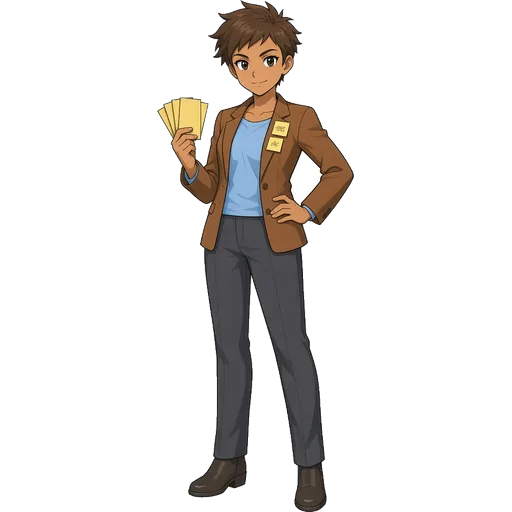
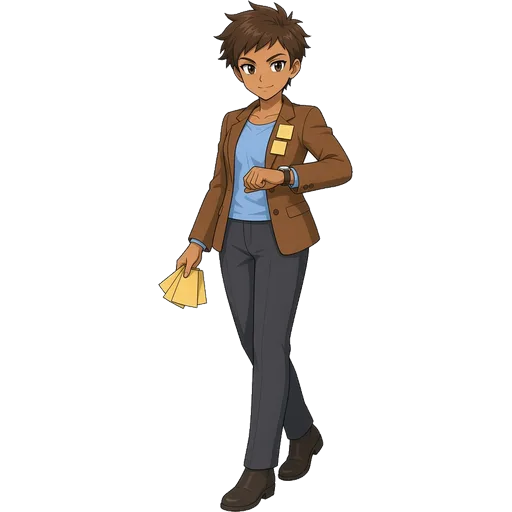
Pass J visual: F1–2 plate pose energy — all seven house plates
Re-commission the seven Office F1–2 house plates (renata, gavin, priya,
holloway, teddy, whitlock, kessler) from static badge poses toward the
gestured F3–5 bar: weight on one hip, one clear gesture with the prop, a
lean — faces still badge-photo calm for dialogue crops.

- gen_office_plates.py brief: shared POSE_ANCHOR (hands + props below the
  shoulder line so nothing reaches the Headshot rim) and one POSE per
  speaker; CHARACTER lines now list props only.
- HEADSHOT_FOCALS: Renata x .49 / y .14, Priya x .505 / y .14, Teddy x .47
  follow the heads that moved; all seven stay in the named-plate band.
- pass-j-visual: Renata pin updated; guard the POSE entries + contract.
- Classic recruiter/overachiever/scrum/manager/intern/boss/vp untouched
  (sha256 pins unchanged). No walk-sheet change — carriers still match.
- fidelity-bar.md Pass J pose-energy section, README + sign-off row.

Changed region(s): [[0.3125, 0.0, 0.6875, 1.0]]

diff --git a/src/sprites.ts b/src/sprites.ts
@@ -109,16 +109,20 @@ const HEADSHOT_FOCALS: Record<string, HeadshotFocal> = {
   ashford: { x: 0.51, y: 0.115, zoom: 3.15 },
   marlowe: { x: 0.53, y: 0.12, zoom: 3.2 },
   caldwell: { x: 0.51, y: 0.12, zoom: 3.1 },
-  // Office F1–2 house plates (Pass J recast). Every figure stands centred
-  // on its plate, so x sits near 0.5; y pins the eye line into the upper
-  // third of the badge and zoom stays in the 3.1–3.4 band the F3–5 named
-  // plates use. Renata's wavy hair is the widest head of the seven — she
-  // takes the loosest zoom; the three slick-haired men take the tightest.
-  renata: { x: 0.45, y: 0.135, zoom: 3.15 },
+  // Office F1–2 house plates (Pass J recast + pose-energy pass). Every
+  // figure stands centred on its plate, so x sits near 0.5 — the pose pass
+  // shifts a few heads off the plate centre line (Teddy leans in from the
+  // left, Renata cocks her hip to the right), so x follows the head, not
+  // the figure. y pins the eye line into the upper third of the badge and
+  // zoom stays in the 3.1–3.4 band the F3–5 named plates use. Renata's wavy
+  // hair is the widest head of the seven — she takes the loosest zoom; the
+  // three slick-haired men take the tightest. Props are held below the
+  // shoulder line on every plate, so no prop reaches the badge rim.
+  renata: { x: 0.49, y: 0.14, zoom: 3.15 },
   gavin: { x: 0.485, y: 0.114, zoom: 3.35 },
-  priya: { x: 0.49, y: 0.135, zoom: 3.3 },
+  priya: { x: 0.505, y: 0.14, zoom: 3.3 },
   holloway: { x: 0.5, y: 0.122, zoom: 3.3 },
-  teddy: { x: 0.5, y: 0.13, zoom: 3.2 },
+  teddy: { x: 0.47, y: 0.13, zoom: 3.2 },
   whitlock: { x: 0.49, y: 0.11, zoom: 3.35 },
   kessler: { x: 0.495, y: 0.118, zoom: 3.35 },
 }

diff --git a/src/__tests__/office/pass-j-visual.test.ts b/src/__tests__/office/pass-j-visual.test.ts
@@ -172,7 +172,7 @@ describe('Pass J — F1–2 house plates recast to the F3–5 bar', () => {
       expect(f.y, `${id} y`).toBeGreaterThanOrEqual(Math.min(...namedY))
       expect(f.y, `${id} y`).toBeLessThanOrEqual(0.14)
     }
-    expect(headshotFocal('renata')).toEqual({ x: 0.45, y: 0.135, zoom: 3.15 })
+    expect(headshotFocal('renata')).toEqual({ x: 0.49, y: 0.14, zoom: 3.15 })
     expect(headshotFocal('kessler')).toEqual({ x: 0.495, y: 0.118, zoom: 3.35 })
   })
 
@@ -194,10 +194,15 @@ describe('Pass J — F1–2 house plates recast to the F3–5 bar', () => {
     const src = readFileSync(join(process.cwd(), 'scripts', 'gen_office_plates.py'), 'utf8')
     for (const id of HOUSE) {
       expect(src, id).toMatch(new RegExp(`'${id}': \\('${id.toUpperCase()}', '\\w+'\\)`))
-      expect(src, `${id} brief`).toMatch(new RegExp(`'${id}': \\(\\n`))
+      // One CHARACTER entry and one POSE entry per speaker.
+      expect(src.match(new RegExp(`'${id}': \\(\\n`, 'g'))?.length, `${id} brief`).toBe(2)
     }
     for (const cmd of ['brief', 'import', 'check']) expect(src).toContain(`'${cmd}'`)
     expect(src).toContain("actor.pal['H']")
+    // Pose-energy pass: the shared pose contract keeps props under the
+    // shoulder line so nothing lands on the Headshot rim.
+    expect(src).toContain('POSE_ANCHOR')
+    expect(src).toContain('BELOW the shoulder line')
     expect(PRESENTATION_SIGNOFF.section19.some((row) => row.includes('Pass J house plates'))).toBe(
       true,
     )

diff --git a/src/screens/office/presentation.ts b/src/screens/office/presentation.ts
@@ -69,6 +69,7 @@ export const PRESENTATION_SIGNOFF = {
     'Pass I ambient Headshots — 15 unique plates; no extra side-cast NPCs',
     'Pass J visual — Kessler / Renata house focals, Sloane chibi tie, two-cell CALDWELL plate',
     'Pass J house plates — F1–2 recast to Office-only 512s (scripts/gen_office_plates.py); Classic files untouched',
+    'Pass J pose energy — all seven F1–2 plates gestured to the F3–5 bar; props below the shoulder line, badge crops clean',
     'Pass J signage — F2 HELP / DESK stacks in one cell; seven-glyph room signs frame inside the cell',
     'Pass G live 1→5 E2E — no Floor 6, THE NOD, save/load, Caldwell phase 2',
   ],

diff --git a/scripts/gen_office_plates.py b/scripts/gen_office_plates.py
@@ -30,6 +30,13 @@ Pipeline (same shape as Pass E's F3–5 plates):
 
 Masters are generated from the briefs (style anchor: the Pass E F3–5 plates)
 and are not committed — see README "Assets" for the precedent.
+
+Pose energy (Pass J follow-up): the first recast landed badge-calm but
+static — arms straight down, both hands on the cup. The brief now carries a
+shared pose contract (POSE_ANCHOR) and one gesture per speaker (POSE), tuned
+against the F3–5 plates: weight on one hip, a hand doing something with the
+prop, a lean — with every prop held below the shoulder line so the square
+Headshot crop shows a clean face and nothing sits on the badge rim.
 """
 
 from __future__ import annotations
@@ -62,58 +69,127 @@ STYLE_ANCHOR = (
     'roster, in exactly the same art style as the Floor 3–5 plates (sloane, '
     'harper, ashford, caldwell): clean cel-shaded anime / JRPG trainer-card '
     'style, crisp dark line art, flat colours with one level of soft shading, '
-    'no gradients or painterly texture, calm "employee badge photo" expression, '
-    'standing straight, facing the viewer, full body from head to shoes, '
-    'centred, plain pure white background, no ground shadow, no text, no '
-    'logo, no frame. Proportions and line weight must match the roster.'
+    'no gradients or painterly texture, calm "employee badge photo" face, '
+    'facing the viewer, full body from head to shoes, centred, plain pure '
+    'white background, no ground shadow, no text, no logo, no frame. '
+    'Proportions and line weight must match the roster.'
 )
+
+# Pose energy (Pass J follow-up). The F3–5 plates stand alive — weight on one
+# hip, a hand doing something with the prop, a lean — while the face stays
+# calm enough for a dialogue crop. The first F1–2 recast landed static (arms
+# straight down, both hands on the cup). This is the shared pose contract;
+# the per-speaker gesture lives in POSE.
+POSE_ANCHOR = (
+    'Pose: alive, not static — weight shifted onto one leg with a relaxed hip, '
+    'shoulders turned a few degrees, ONE clear gesture with the prop or a hand. '
+    'No action pose, no walking stride, no jumping, no shouting, no open mouth, '
+    'no pointing at the camera, no exaggerated grin — this is a colleague '
+    'caught between meetings, not a battle taunt. CRITICAL crop contract: both '
+    'hands and the prop stay BELOW the shoulder line (sternum height or lower, '
+    'arms hanging where the gesture allows) so the top third of the figure — '
+    'head, neck, shoulders — contains nothing but the person; the square '
+    'Headshot crop must show a clean face with no prop touching its rim. Keep '
+    'the whole figure, including the prop and elbows, inside the frame with '
+    'clear white margin on both sides, both feet on the ground.'
+)
+
+POSE: dict[str, str] = {
+    'renata': (
+        'Hip cocked, weight on the back leg, shoulders turned a few degrees. '
+        'One arm hangs down with the handset held loosely at thigh height, '
+        'mouthpiece tipped toward the viewer ("it\'s for you"), coiled cord '
+        'trailing; the other hand flat on the opposite hip. Head tilted, one '
+        'eyebrow up, small dry closed-mouth smile.'
+    ),
+    'gavin': (
+        'Three-quarter stance, weight on the back leg, front foot angled out, '
+        'one shoulder dropped, chin lifted like he is sizing you up. Paper '
+        'stack tucked under one arm against his hip; the other hand fastens '
+        'the single jacket button at his waist, elbow out. Smug closed-mouth '
+        'half smile, one eyebrow slightly up.'
+    ),
+    'priya': (
+        'Slight forward lean from the ankles, weight on the front foot, like '
+        'she is already on her way to the next meeting. One arm hangs down '
+        'with the fan of blank index cards at thigh height, tilted toward the '
+        'viewer; the other hand taps her wristwatch at waist height. Sticky '
+        'notes on the lapel stay blank (no writing). Tight determined '
+        'closed-mouth smile, brows set.'
+    ),
+    'holloway': (
+        'Weight sunk hard onto one hip so the hips tilt, shoulders sloped, '
+        'head tilted the other way. The coffee cup is carried at waist height '
+        'in one hand, tipped a few degrees; the other hand rests on her hip. '
+        'Tie hanging loose. Resigned patient closed-mouth smile, eyes '
+        'half-lidded.'
+    ),
+    'teddy': (
+        'Standing, leaning forward eagerly from the ankles, heels together, '
+        'shoulders turned a few degrees. Coffee cup held in one hand at '
+        'sternum height, a little toward the viewer; the other thumb hooked '
+        'under the backpack strap. Wide earnest eyes, eyebrows up, small '
+        'hopeful closed-mouth smile.'
+    ),
+    'whitlock': (
+        'Leaning back very slightly, weight on the heels. Green ledger open in '
+        'one hand at chest height, pen in the other poised over the page '
+        'mid-note; he looks at the viewer over the top of his reading glasses. '
+        'One eyebrow raised, mouth a flat line.'
+    ),
+    'kessler': (
+        'Square, planted stance, weight on one leg, chin raised. Folder tucked '
+        'under one arm; the other wrist turned up in front of his stomach as '
+        'he checks his watch — the meeting started without you. Stern, no '
+        'smile, eyes on the viewer.'
+    ),
+}
 
 # Who they are. Pronouns follow the dialogue (mvp-design §2, floor-2-design §2).
 CHARACTER: dict[str, str] = {
     'renata': (
         'Front-desk receptionist, woman in her early thirties. Wavy '
         'shoulder-length hair with a soft side part. Blazer over a plain white '
-        'blouse, tailored trousers, dark flats. Holds a desk-phone handset at '
-        'her hip, other hand on her hip. Dry, unimpressed but kind — she has '
-        'seen every new hire.'
+        'blouse, tailored trousers, dark flats. Prop: a corded desk-phone handset. '
+        'Dry, unimpressed but kind — she has seen every new hire.'
     ),
     'gavin': (
         'Senior Associate, nine years at the same desk, man in his mid-thirties. '
         'Slicked-back hair with a sharp part. Trim buttoned suit, crisp shirt, '
-        'narrow tie, tiny gold company pin on the lapel. Neat stack of papers '
-        'against his chest, other hand in a pocket. Smug, competitive half smile.'
+        'narrow tie, tiny gold company pin on the lapel. Prop: a neat stack of '
+        'papers. Smug, competitive half smile.'
     ),
     'priya': (
         'Ops coordinator who front-loads every meeting, South Asian woman in her '
         'late twenties. Short choppy spiky hair. Fitted blazer over a light shirt, '
         'charcoal trousers, ankle boots. Sticky notes stuck to the lapel like '
-        'badges; a fan of index cards in one hand. Focused, tight determined smile.'
+        'badges. Prop: a fan of index cards. Focused, tight determined smile.'
     ),
     'holloway': (
         'Interim team lead, interim for four years, woman in her mid-forties. Hair '
         'pulled into a low loose bun, faint tired shadows under the eyes. Pantsuit, '
-        'pale collared shirt, slim bright tie worn loose, dark loafers. Paper '
-        'coffee cup raised mid-sip. Weary, patient, resigned smile.'
+        'pale collared shirt, slim bright tie worn loose, dark loafers. Prop: a '
+        'paper coffee cup. Weary, patient, resigned smile.'
     ),
     'teddy': (
         'Rotational intern fourteen months into six, also the help desk, young man '
         'about 23. Messy tousled hair, a few freckles. Slightly-too-big blazer worn '
         'open over a pale button-up, red lanyard with a white ID badge, chinos, '
-        'white sneakers, grey backpack strap. Holds a coffee cup with both hands. '
-        'Eager, a little anxious, wide earnest eyes.'
+        'white sneakers, grey backpack strap. Prop: a paper coffee cup. Eager, a '
+        'little anxious, wide earnest eyes.'
     ),
     'whitlock': (
         'External financial auditor ("legally, that\'s the point of me"), man in '
         'his early sixties. Swept-back white hair, long lined clean-shaven face, '
         'thin rectangular reading glasses. Severe suit with waistcoat, crisp shirt, '
-        'narrow deep-red tie. Slim green hardcover ledger under one arm, pen in the '
-        'other hand. Neutral, precise, faintly disapproving; mouth a flat line.'
+        'narrow deep-red tie. Props: a slim green hardcover ledger and a pen. '
+        'Neutral, precise, faintly disapproving; mouth a flat line.'
     ),
     'kessler': (
         'Director of Operations, the Floor 2 boss who makes everyone stand, man in '
         'his late forties. Blond hair slicked straight back, strong jaw, thin mouth. '
         'Immaculate buttoned suit, crisp shirt, steel-blue tie in a tight knot, black '
-        'dress shoes. Slim dark leather folder closed against his side. Stern, '
+        'dress shoes, a slim wristwatch. Prop: a slim dark leather folder. Stern, '
         'controlled, chin slightly raised, no smile.'
     ),
 }
@@ -167,6 +243,10 @@ def brief(speaker: str, actors) -> str:
         STYLE_ANCHOR,
         '',
         CHARACTER[speaker],
+        '',
+        POSE_ANCHOR,
+        '',
+        'Gesture: ' + POSE[speaker],
         '',
         'Identity carriers — must match public/office/actors/%s.png:' % speaker,
     ]

diff --git a/docs/rpg/fidelity-bar.md b/docs/rpg/fidelity-bar.md
@@ -363,6 +363,62 @@ these palettes, so no chibi retouch was needed; if a future re-commission
 changes a carrier, update the `gen_office_actors.py` palette first and let
 `check` catch the portrait.
 
+### Pass J — F1–2 plate pose energy
+
+Follow-up to the recast above, on tip `414a77c`. One scoped item across all
+seven house plates: no Floor 6, Classic untouched (sha256 pins hold), no
+iOS, demo mp4 not remuxed, no engine work, no walk-sheet change.
+
+**Before.** The recast fixed identity and calm, but landed static next to
+the F3–5 plates: Kessler and Whitlock arms straight down, Teddy with both
+hands on the cup, Holloway holding a coffee at arm's length, Gavin a hand in
+a pocket and papers flat to the chest. The F3–5 named plates read alive —
+Sloane's contrapposto and clipboard, Nico's cards and pocket, Quincy's tube
+under the arm, Ashford's lean, Marlowe reading the tablet — and the two rows
+did not sit together on the party strip. Two of the old F1–2 props (Priya's
+cards, Holloway's cup) also cut the badge rim at 64px, the same corner-clip
+the Classic `recruiter` handset had.
+
+**After.** Seven re-commissioned masters against the same style anchor, same
+identity carriers, same `sprites.ts` / `HEADSHOT_FOCALS` / `Headshot`
+contract. Gesture per speaker:
+
+- **Renata** — hip cocked, hand on hip, handset hanging at thigh height with
+  the mouthpiece tipped at you ("it's for you"), head tilted, one eyebrow up.
+- **Gavin** — three-quarter turn, weight back, chin lifted; papers tucked
+  under one arm, the other hand fastening his jacket button. Smug half smile.
+- **Priya** — forward lean from the ankles, cards carried low, the other
+  hand tapping her watch; sticky notes blank. Tight determined smile.
+- **Holloway** — weight sunk onto one hip, shoulders sloped, cup carried at
+  the waist, other hand on her hip, tie loose, eyes half-lidded.
+- **Teddy** — leaning in from the ankles, heels together, cup in one hand at
+  the sternum, thumb hooked under the backpack strap, eyebrows up, closed
+  hopeful smile (no open mouth, no stride).
+- **Whitlock** — leaning back a touch, green ledger open at chest height,
+  pen mid-note, looking at you over the top of his reading glasses.
+- **Kessler** — planted, chin raised, folder under one arm, wrist turned up
+  checking his watch: the meeting started without you.
+
+Faces stay badge-photo calm — closed mouths, no shouting, no thrash — so the
+dialogue crops read the same as F3–5.
+
+**Crop contract.** The brief now carries a shared pose contract
+(`POSE_ANCHOR` in `gen_office_plates.py`): hands and props stay below the
+shoulder line, so the top third of every figure is head / neck / shoulders
+only. At 40–64px every badge shows a clean face with no prop touching the
+rim; the props are all in the full figure the Office battle shows. Focals
+moved only where a head moved: Renata `x 0.45→0.49, y 0.135→0.14` (hip cock
+shifts her head right), Priya `x 0.49→0.505, y 0.135→0.14`, Teddy
+`x 0.5→0.47` (he leans in from the left). All seven stay in the named-plate
+band (x 0.47–0.505, y 0.11–0.14, zoom 3.15–3.35); `pass-j-visual.test.ts`
+pins Renata and Kessler.
+
+**Pipeline.** `brief` prints the pose contract + gesture under the character
+line; `check` is unchanged and passes for all seven (hair carriers still
+match the walk-sheet palettes, so no chibi retouch). One master (Priya) had
+a scribble on a sticky note flat-filled before import; otherwise the masters
+are as generated and, as before, not committed.
+
 ### Pass J — welcome: Office-first
 
 Title hierarchy on tip `5dde97d`. Scope is the welcome stack and its copy;

diff --git a/README.md b/README.md
@@ -59,9 +59,10 @@ need to re-export at a different size.
 
 Office Floor 1–2 house plates (`npcs/renata.webp` … `kessler.webp`) are
 Office-only portraits on the same 512 contract; `python3 scripts/gen_office_plates.py brief`
-prints the commission brief per speaker (identity carriers come from the walk-sheet palettes),
-`import <dir>` re-encodes masters, and `check` verifies the committed plates. Classic keeps its
-own `recruiter` / `overachiever` / … files untouched.
+prints the commission brief per speaker (identity carriers come from the walk-sheet palettes;
+the pose contract and per-speaker gesture keep props under the shoulder line so the Headshot
+crop stays clean), `import <dir>` re-encodes masters, and `check` verifies the committed plates.
+Classic keeps its own `recruiter` / `overachiever` / … files untouched.
 
 Office campaign audio (distinct from Classic Act-1 beds) is documented in
 `docs/rpg/office-audio.md` and regenerated with `python3 scripts/gen_office_audio.py`.
